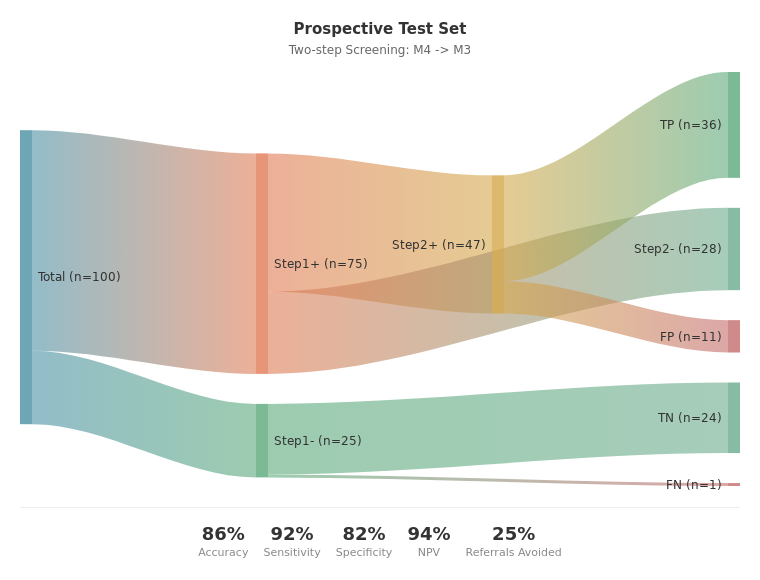
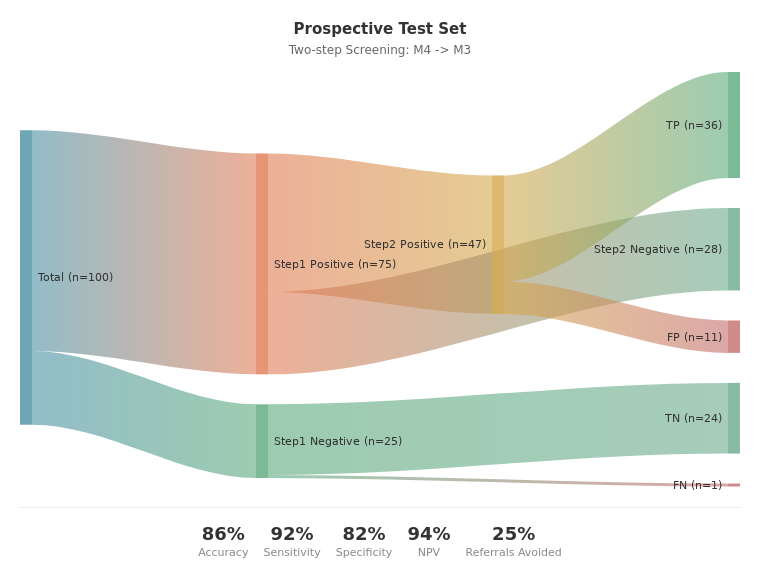
Update sankey labels: Step1+/- to Step1 Positive/Negative

diff --git a/outputs/final_deliverables/html/sankey_single_google.html b/outputs/final_deliverables/html/sankey_single_google.html
@@ -76,13 +76,13 @@
                     {label: 'Referrals Avoided', value: '12%'}
                 ],
                 data: [
-                    ['Total (n=51)', 'Step1+ (n=45)', 45],
-                    ['Total (n=51)', 'Step1- (n=6)', 6],
-                    ['Step1+ (n=45)', 'Step2+ (n=25)', 25],
-                    ['Step1+ (n=45)', 'Step2- (n=20)', 20],
-                    ['Step2+ (n=25)', 'TP (n=20)', 20],
-                    ['Step2+ (n=25)', 'FP (n=5)', 5],
-                    ['Step1- (n=6)', 'TN (n=6)', 6]
+                    ['Total (n=51)', 'Step1 Positive (n=45)', 45],
+                    ['Total (n=51)', 'Step1 Negative (n=6)', 6],
+                    ['Step1 Positive (n=45)', 'Step2 Positive (n=25)', 25],
+                    ['Step1 Positive (n=45)', 'Step2 Negative (n=20)', 20],
+                    ['Step2 Positive (n=25)', 'TP (n=20)', 20],
+                    ['Step2 Positive (n=25)', 'FP (n=5)', 5],
+                    ['Step1 Negative (n=6)', 'TN (n=6)', 6]
                 ]
             },
             'internal_m5m3': {
@@ -96,14 +96,14 @@
                     {label: 'Referrals Avoided', value: '25%'}
                 ],
                 data: [
-                    ['Total (n=51)', 'Step1+ (n=38)', 38],
-                    ['Total (n=51)', 'Step1- (n=13)', 13],
-                    ['Step1+ (n=38)', 'Step2+ (n=23)', 23],
-                    ['Step1+ (n=38)', 'Step2- (n=15)', 15],
-                    ['Step2+ (n=23)', 'TP (n=19)', 19],
-                    ['Step2+ (n=23)', 'FP (n=4)', 4],
-                    ['Step1- (n=13)', 'TN (n=12)', 12],
-                    ['Step1- (n=13)', 'FN (n=1)', 1]
+                    ['Total (n=51)', 'Step1 Positive (n=38)', 38],
+                    ['Total (n=51)', 'Step1 Negative (n=13)', 13],
+                    ['Step1 Positive (n=38)', 'Step2 Positive (n=23)', 23],
+                    ['Step1 Positive (n=38)', 'Step2 Negative (n=15)', 15],
+                    ['Step2 Positive (n=23)', 'TP (n=19)', 19],
+                    ['Step2 Positive (n=23)', 'FP (n=4)', 4],
+                    ['Step1 Negative (n=13)', 'TN (n=12)', 12],
+                    ['Step1 Negative (n=13)', 'FN (n=1)', 1]
                 ]
             },
             'prospective_m4m3': {
@@ -117,14 +117,14 @@
                     {label: 'Referrals Avoided', value: '25%'}
                 ],
                 data: [
-                    ['Total (n=100)', 'Step1+ (n=75)', 75],
-                    ['Total (n=100)', 'Step1- (n=25)', 25],
-                    ['Step1+ (n=75)', 'Step2+ (n=47)', 47],
-                    ['Step1+ (n=75)', 'Step2- (n=28)', 28],
-                    ['Step2+ (n=47)', 'TP (n=36)', 36],
-                    ['Step2+ (n=47)', 'FP (n=11)', 11],
-                    ['Step1- (n=25)', 'TN (n=24)', 24],
-                    ['Step1- (n=25)', 'FN (n=1)', 1]
+                    ['Total (n=100)', 'Step1 Positive (n=75)', 75],
+                    ['Total (n=100)', 'Step1 Negative (n=25)', 25],
+                    ['Step1 Positive (n=75)', 'Step2 Positive (n=47)', 47],
+                    ['Step1 Positive (n=75)', 'Step2 Negative (n=28)', 28],
+                    ['Step2 Positive (n=47)', 'TP (n=36)', 36],
+                    ['Step2 Positive (n=47)', 'FP (n=11)', 11],
+                    ['Step1 Negative (n=25)', 'TN (n=24)', 24],
+                    ['Step1 Negative (n=25)', 'FN (n=1)', 1]
                 ]
             },
             'prospective_m5m3': {
@@ -138,14 +138,14 @@
                     {label: 'Referrals Avoided', value: '35%'}
                 ],
                 data: [
-                    ['Total (n=100)', 'Step1+ (n=65)', 65],
-                    ['Total (n=100)', 'Step1- (n=35)', 35],
-                    ['Step1+ (n=65)', 'Step2+ (n=44)', 44],
-                    ['Step1+ (n=65)', 'Step2- (n=21)', 21],
-                    ['Step2+ (n=44)', 'TP (n=34)', 34],
-                    ['Step2+ (n=44)', 'FP (n=10)', 10],
-                    ['Step1- (n=35)', 'TN (n=31)', 31],
-                    ['Step1- (n=35)', 'FN (n=4)', 4]
+                    ['Total (n=100)', 'Step1 Positive (n=65)', 65],
+                    ['Total (n=100)', 'Step1 Negative (n=35)', 35],
+                    ['Step1 Positive (n=65)', 'Step2 Positive (n=44)', 44],
+                    ['Step1 Positive (n=65)', 'Step2 Negative (n=21)', 21],
+                    ['Step2 Positive (n=44)', 'TP (n=34)', 34],
+                    ['Step2 Positive (n=44)', 'FP (n=10)', 10],
+                    ['Step1 Negative (n=35)', 'TN (n=31)', 31],
+                    ['Step1 Negative (n=35)', 'FN (n=4)', 4]
                 ]
             }
         };
@@ -176,7 +176,7 @@
                         colors: ['#4A90A4', '#E07B54', '#5BA97B', '#D4A84B', '#6BAB8C', '#5BA97B', '#C46D6D', '#6BAB8C', '#C46D6D'],
                         label: { 
                             fontName: 'Arial',
-                            fontSize: 12, 
+                            fontSize: 11, 
                             color: '#333', 
                             bold: false 
                         },
